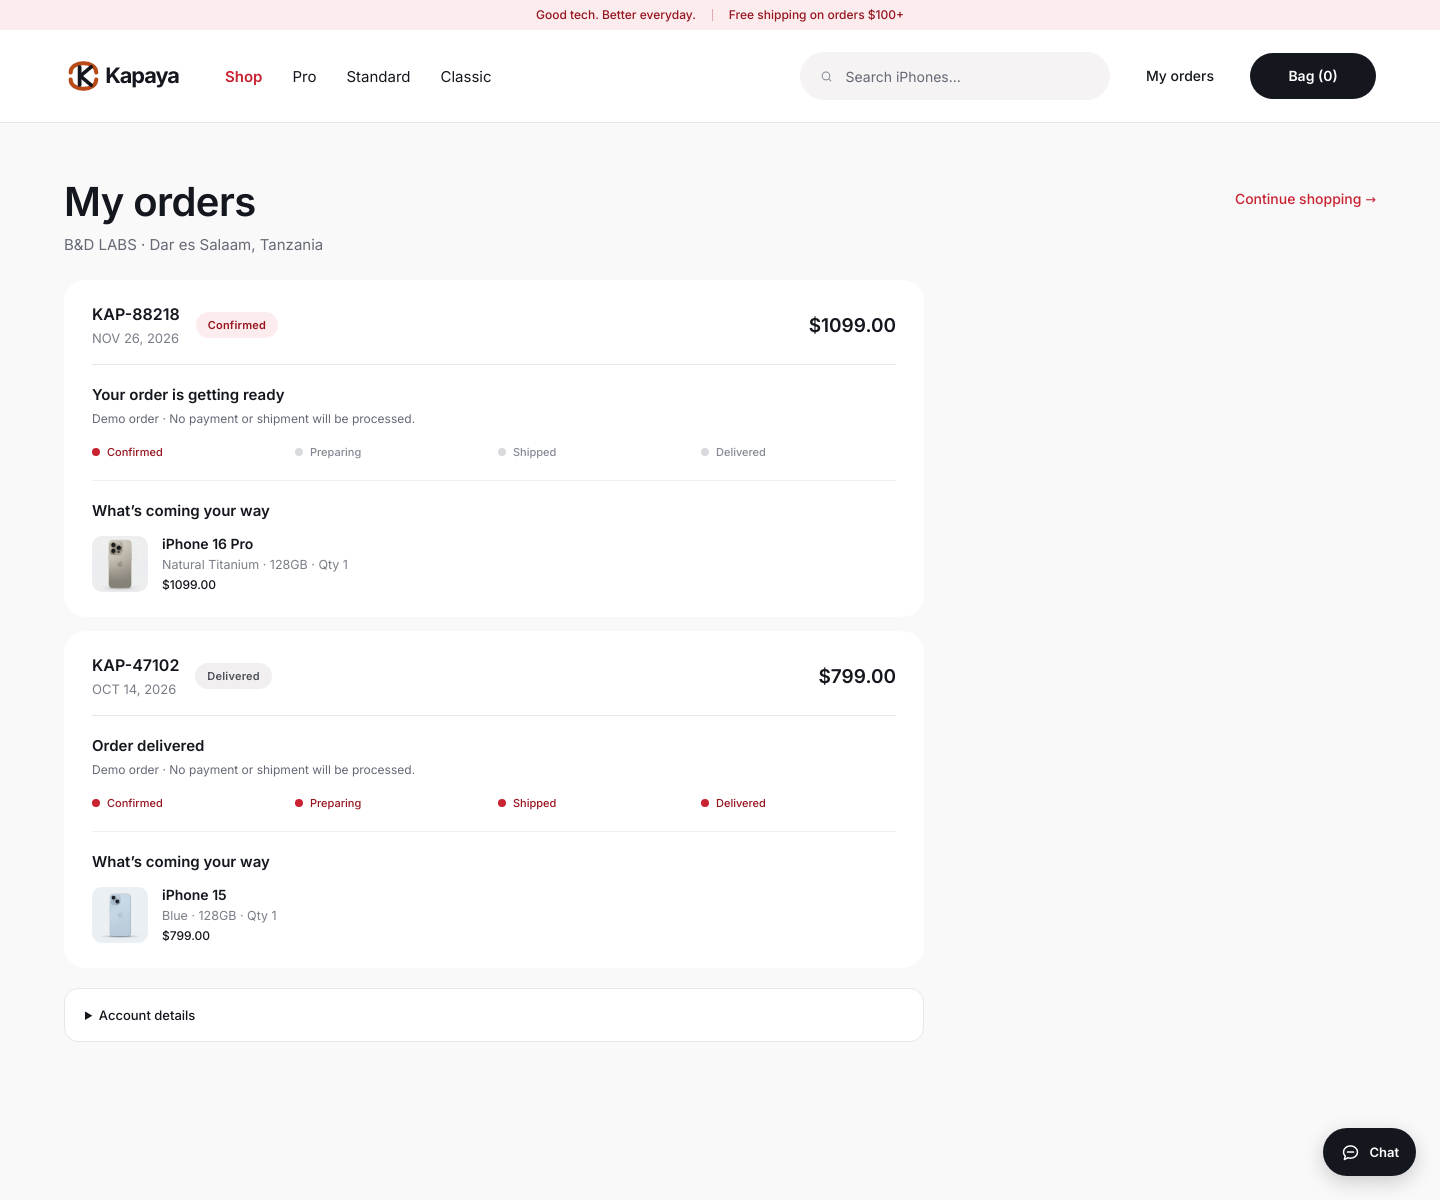
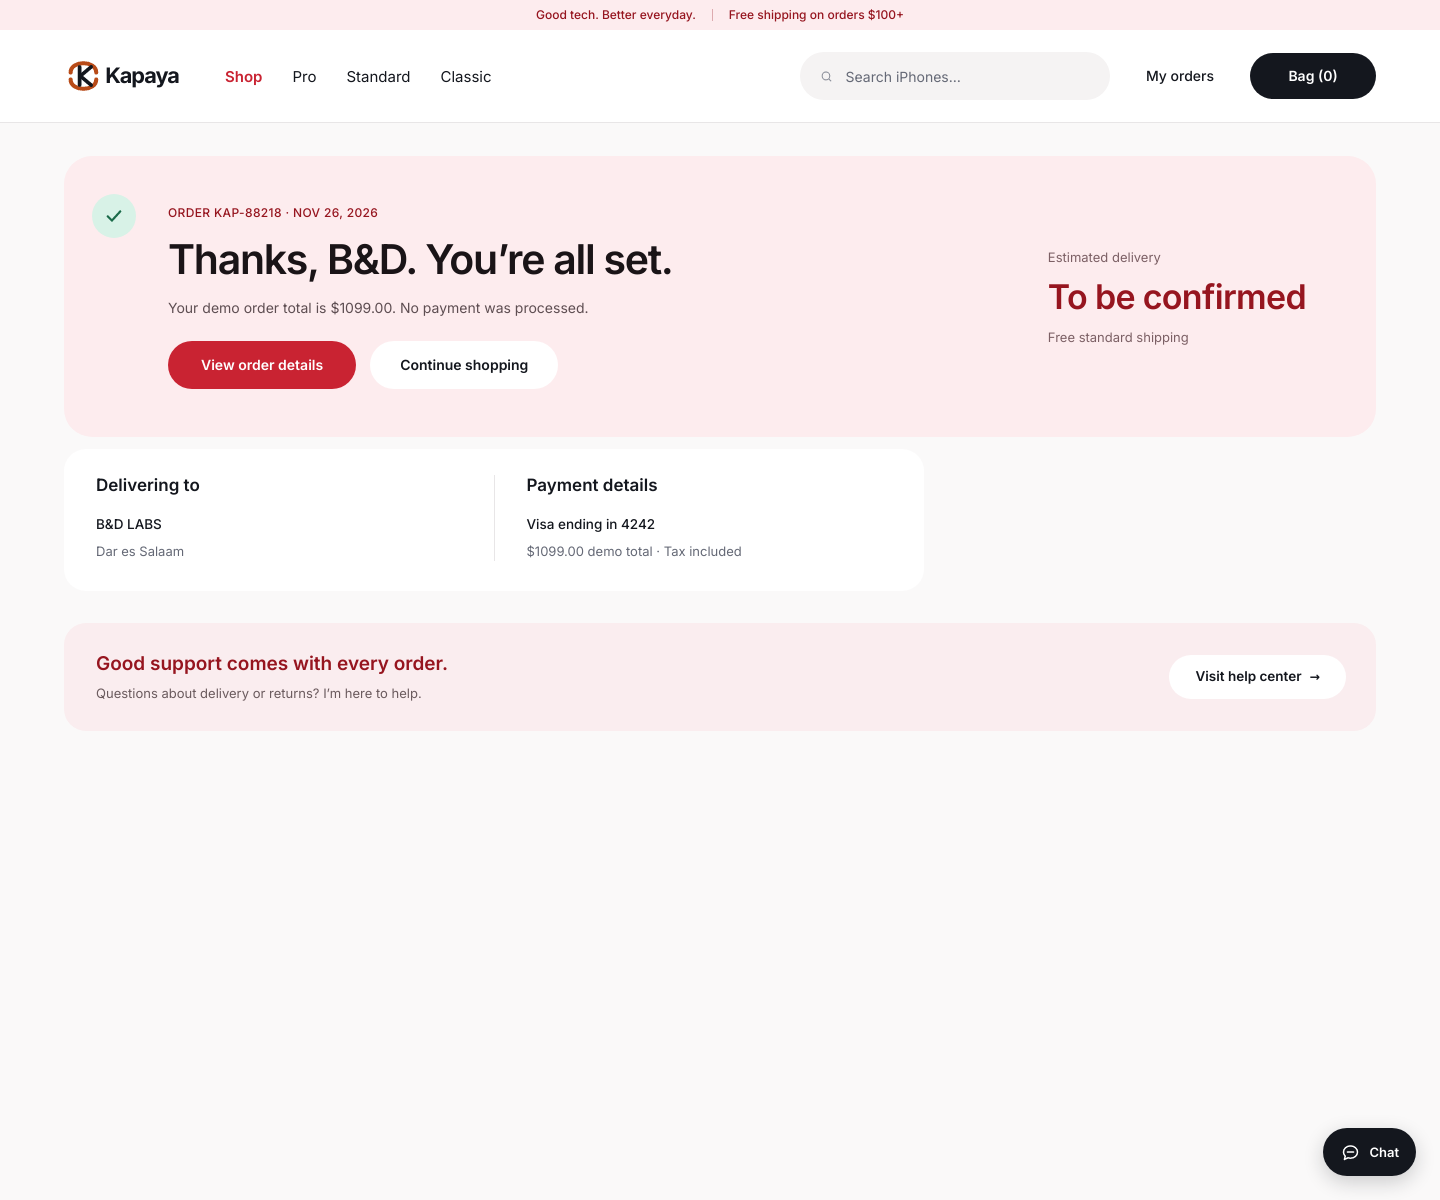
Restore streamlined order confirmation page

diff --git a/docs/mockup/index.html b/docs/mockup/index.html
@@ -1257,6 +1257,8 @@ body.is-shop .shop-footer{display:block;margin-top:auto}
   .home-ftr{padding:36px 24px 24px}
 }
 
+.confirmed-details{grid-template-columns:minmax(0,1fr);max-width:860px}
+
 /* Compact orders overview */
 .orders-list{max-width:860px;margin-top:26px}
 .orders-page .order-row{padding:24px 28px;margin-bottom:14px}
@@ -2109,6 +2111,58 @@ const checkout = (state) => {
   </form>
 </main>`;
 };
+const confirmed = (state) => {
+  const o = state.order;
+  const total = o.total;
+  return `
+<main class="page">
+  <section class="done-hero">
+    <span class="done-tick"><svg width="20" height="20" viewBox="0 0 24 24" fill="none" stroke="#1B6B4A" stroke-width="2.6" stroke-linecap="round" stroke-linejoin="round"><path d="M4.5 12.5 9.5 17.5 19.5 6.5"/></svg></span>
+    <div class="done-l">
+      <p class="done-eyebrow">ORDER ${o.id} · ${o.date}</p>
+      <h1 class="done-h">Thanks, ${o.first}. You’re all set.</h1>
+      <p class="done-p">Your demo order total is ${money(total)}. No payment was processed.</p>
+      <div class="done-actions">
+        <button class="btn-red btn-details" data-go="account">View order details</button>
+        <button class="btn-plain" data-go="shop">Continue shopping</button>
+      </div>
+    </div>
+    <div class="done-r">
+      <p class="done-est">Estimated delivery</p>
+      <p class="done-date">To be confirmed</p>
+      <p class="done-ship">Free standard shipping</p>
+    </div>
+  </section>
+
+  <div class="done-grid confirmed-details">
+    <div class="done-col">
+      <div class="info-card">
+        <div class="info-col">
+          <h3 class="info-h">Delivering to</h3>
+          <p class="info-b">${o.first} ${o.last}</p>
+          <p class="info-p">${o.street ? o.street + '<br>' : ''}${o.postal ? o.postal + ' ' : ''}${o.city}${o.country ? '<br>' + o.country : ''}</p>
+        </div>
+        <div class="info-sep"></div>
+        <div class="info-col">
+          <h3 class="info-h">Payment details</h3>
+          <p class="info-b">Visa ending in ${o.last4}</p>
+          <p class="info-p">${money(total)} demo total · Tax included</p>
+
+        </div>
+      </div>
+    </div>
+
+  </div>
+
+  <div class="support">
+    <div>
+      <p class="support-h">Good support comes with every order.</p>
+      <p class="support-p">Questions about delivery or returns? I’m here to help.</p>
+    </div>
+    <a class="btn-plain sm" data-go="help">Visit help center <span class="arw">→</span></a>
+  </div>
+</main>`;
+};
 const account = (state) => `
 <main class="page orders-page">
   <div class="bag-head">
@@ -2235,10 +2289,10 @@ const chat = (state) => `
     <div class="chat-foot">Need more information? <a data-go="help">Visit the help center →</a></div>
   </section>
 </main>`;
-const VIEWS = { home, shop, product, bag, checkout, account, order: orderDetail, help, chat };
+const VIEWS = { home, shop, product, bag, checkout, confirmed, account, order: orderDetail, help, chat };
 
 const initialParts = location.hash.replace(/^#\/?/, '').split('/');
-const initialRoute = initialParts[0] === 'orders' ? 'order' : initialParts[0] === 'confirmed' ? 'account' : initialParts[0];
+const initialRoute = initialParts[0] === 'orders' ? 'order' : initialParts[0];
 const initialArg = initialParts[1] || null;
 const initialProduct = byId(initialArg) || PRODUCTS[0];
 let expectedHash = location.hash || '#/home';
@@ -2408,7 +2462,7 @@ window.addEventListener('hashchange', () => {
   if (location.hash === expectedHash) return;
   expectedHash = location.hash;
   const parts = location.hash.replace(/^#\/?/, '').split('/');
-  const route = parts[0] === 'orders' ? 'order' : parts[0] === 'confirmed' ? 'account' : parts[0];
+  const route = parts[0] === 'orders' ? 'order' : parts[0];
   if (!VIEWS[route]) return;
   setStoreRoute(route, parts[1] || null);
   paint();
@@ -2625,7 +2679,7 @@ document.addEventListener('submit', (e) => {
   store.cart = [];
   store.discount = 0; store.promo = ''; store.promoMsg = '';
   persist();
-  go('account');
+  go('confirmed');
 });
 
 document.addEventListener('keydown', (e) => {
